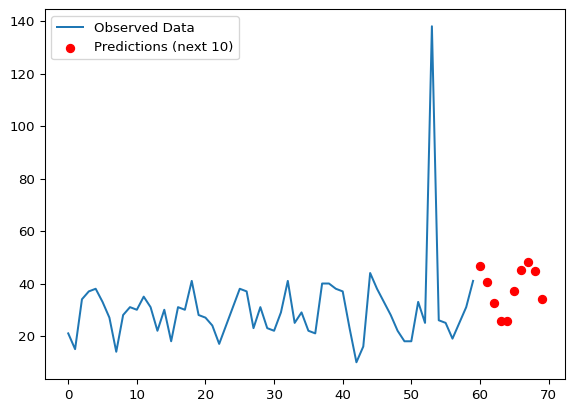
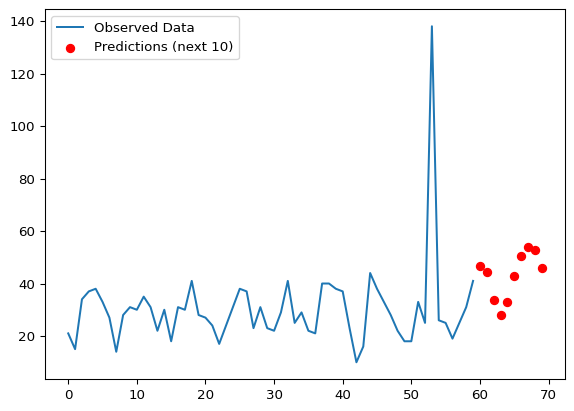
Sort of working

Changed region(s): [[0.8589, 0.5839, 0.9774, 0.8175], [0.8293, 0.6423, 0.8589, 0.7007]]

diff --git a/lstm.md b/lstm.md
@@ -105,7 +105,7 @@ for _ in range(forecast_horizon):
 print(f"Next {forecast_horizon} value predictions:", future_predictions)
 ```
 
-    Next 10 value predictions: [np.float32(46.756332), np.float32(40.566196), np.float32(32.509727), np.float32(25.842226), np.float32(25.8815), np.float32(37.112373), np.float32(45.10941), np.float32(48.16177), np.float32(44.749073), np.float32(34.23605)]
+    Next 10 value predictions: [np.float32(46.752495), np.float32(44.202854), np.float32(33.53234), np.float32(27.918453), np.float32(32.95007), np.float32(42.77149), np.float32(50.53554), np.float32(53.92978), np.float32(52.9334), np.float32(45.93794)]
 
 We now visualize the observed data and the prediction
 
